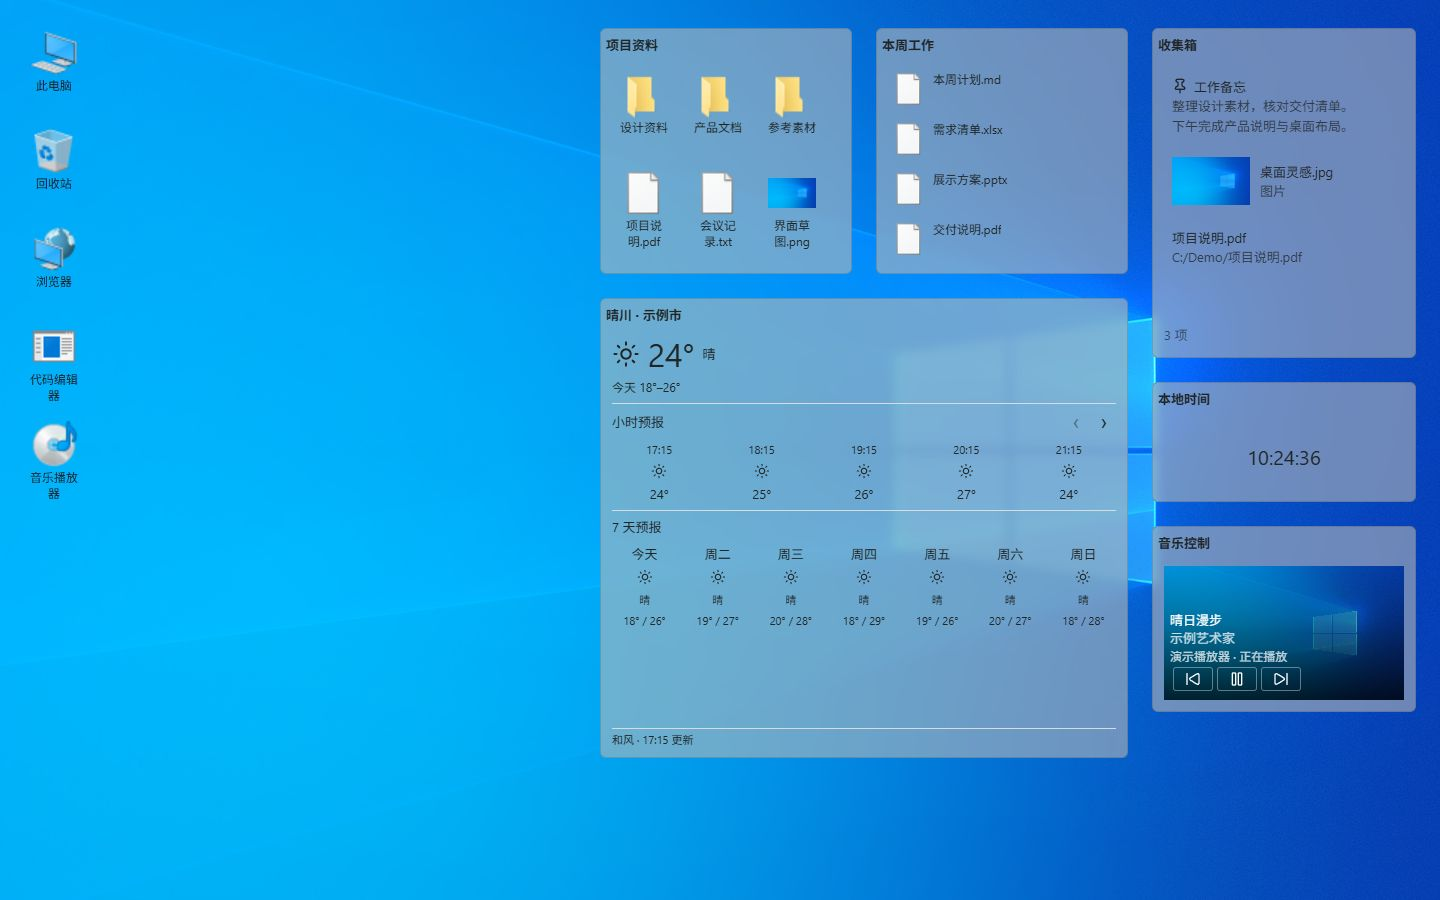
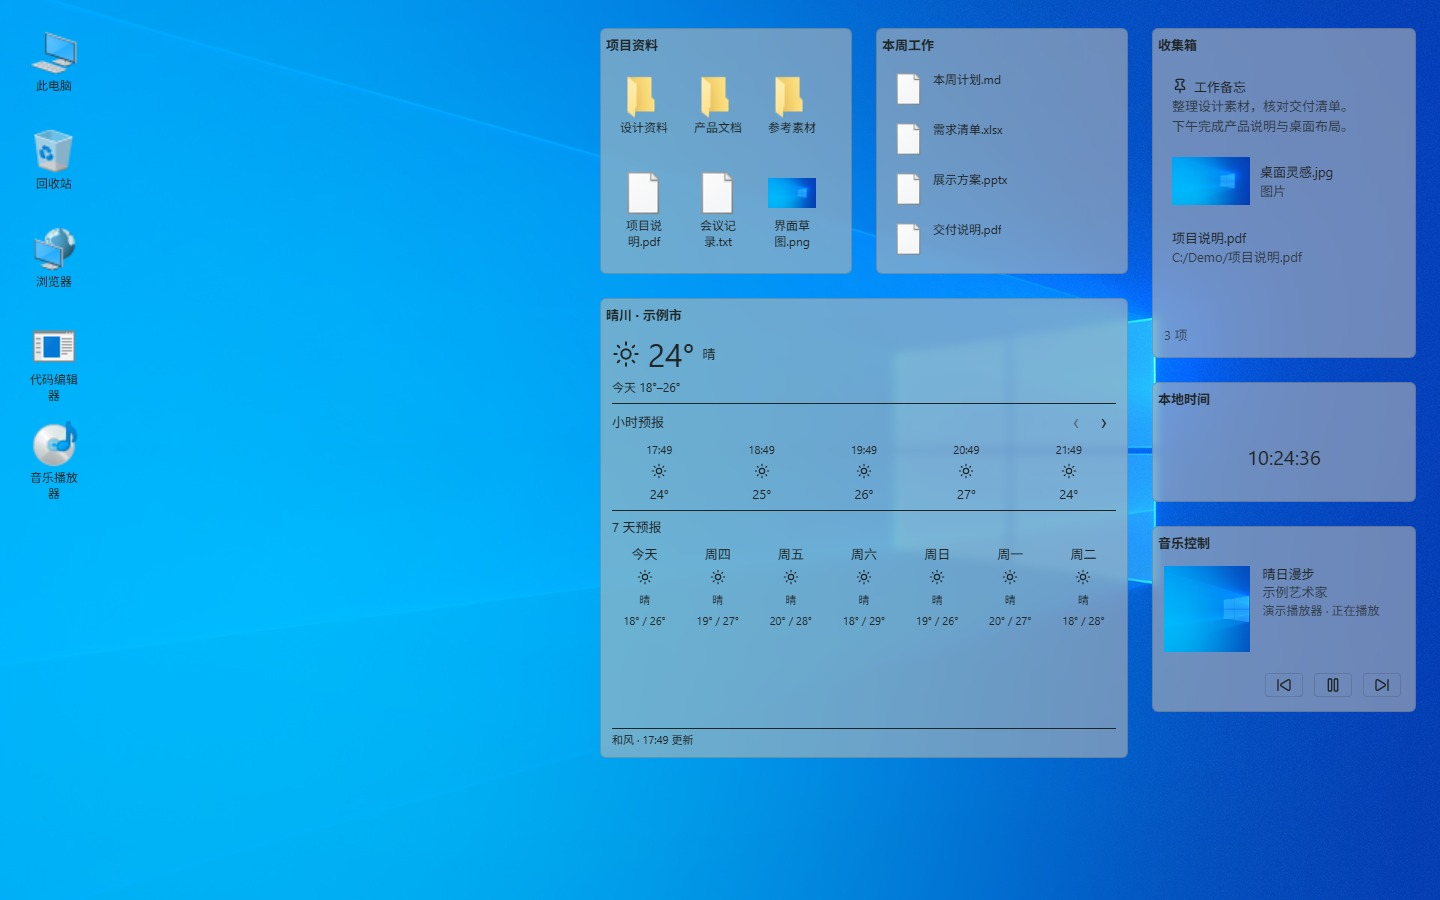
docs - 重写 README 为基础介绍，压缩功能说明并补快速开始、使用方式与功能边界 - 重新生成深色与浅色桌面截图，截图使用演示数据

Changed region(s): [[0.7812, 0.6222, 1.0, 0.7778]]

diff --git a/README.md b/README.md
@@ -1,83 +1,72 @@
 # 🖥 Desktop Tools
 
-Desktop Tools 是一款面向个人效率用户、专业创作者和开发者的 Windows 桌面内容工作区。它把文件、文件夹、围栏、门户和信息组件放在同一个可恢复的桌面表面上，同时保留 Windows Explorer 的文件事实、Shell 操作和系统恢复能力。
-
-## 📸 软件截图
+Desktop Tools 是一款 Windows 桌面内容工作区。它把桌面文件、文件夹、围栏、文件夹门户和常用信息组件放在同一个可恢复的桌面上，同时继续使用 Windows Explorer 管理文件。
 
 ![Desktop Tools 深色桌面工作区](resources/screenshots/desktop-overview.jpg)
 
 <details>
-<summary>浅色桌面工作区</summary>
+<summary>浅色主题</summary>
 
 ![Desktop Tools 浅色桌面工作区](resources/screenshots/desktop-overview-light.jpg)
 
 </details>
 
+> 截图为演示数据，不包含真实文件、账户或天气凭据。
+
 ## ✨ 功能
 
-- **桌面工作区**：组织文件、目录、快捷方式和功能格子，支持移动、缩放、折叠、边缘吸附、布局恢复和多显示器显示。
-- **围栏与文件夹门户**：围栏负责项目归属、排序和滚动；文件夹门户负责浏览绑定目录及其子目录，并支持真实文件拖入和拖出。
-- **Shell 内容呈现**：按需读取 Windows Shell 缩略图、视频帧和音频封面；加载失败时保留系统图标，不添加音乐角标、视频边框或快捷方式箭头。
-- **收集箱**：集中保存文本、独立图片和普通文件映射。支持 Markdown 编辑、图片预览、类型筛选、多选、拖出和共享内容；删除收集记录不会删除文件映射指向的源文件。
-- **功能格子**：提供收集箱、音乐、时间、Debug 和天气等官方组件。组件沿用统一的标题、菜单、移动、尺寸和跨屏交互；收集箱与天气格子可以从零添加，也可以移除。
-- **插件扩展与预设插件**：支持通过声明式清单与 JavaScript ES 模块外壳扩展桌面格子与设置页条目；插件可在清单中声明宿主能力，运行时经能力通道按实例授权调用，需要读本机数据的插件使用通用 loopback 通道（只绑本机回环地址、由宿主注入并校验凭据）取原始 HTTP 数据，自行解析。插件还可为每个格子类型声明默认与最小尺寸，并向格子右键菜单注入自己的命令。主题插件可自带字体文件，安装后字体出现在「设置 → 外观」的字体列表，可用于任何主题，缺字时逐字符回退到系统字体。安装包将「主题-青笺」「主题-宋律」「主题-夜之城」与「AstrBot 状态」及插件文档直接输出到程序所在目录的 `plugin`，此处也是默认插件根；仓库 `plugin/示例/` 的三个开发示例不随包分发。在设置页安装的插件装到 `作者@名称` 文件夹，标识由清单决定、安装不改写，同一作者的同一标识按同一插件覆盖安装；插件页显示本次启动实际使用的插件目录，可直接复制。可显式设置其他插件目录，下次启动生效，不自动搬迁旧文件。升级保留用户新增插件，但可能覆盖随包文件；真正卸载会删除安装目录内全部插件，包括用户自装插件，安装目录外的显式插件目录不受影响。开发运行通常使用 `build/target/debug/plugin`，仓库插件目录不自动生效。
-- **AstrBot 状态格子**：安装随附的「AstrBot 状态」插件后，可在桌面上按类型添加六个格子：状态、就绪时长、平台连接、资源占用、消息量与运行日志。四个结论（在线、离线、探测被拒、未知）各有独立文案，未知不等于离线；数据超过 60 秒未更新时标记为过期，不沿用旧值。随附的 AstrBot 侧采集插件 `astrbot_plugin_desktop_status` 需要手动装进 AstrBot 的数据目录：它在 AstrBot 进程内采集平台连接、资源占用、消息量、日志与 Token 用量，按快照契约 v2 推送到本机 `127.0.0.1:8765`，并在 `127.0.0.1:8766` 提供拉取与启停平台接口；两者共用一把本机随机密钥，存放于 Windows 凭据管理器（目标名 `DesktopTools/astrbot-status`），网格子经宿主的本机通道读取，不读写 AstrBot 的任何既有凭据，页面也不直接联网。推送端口被占用时自动退回拉取方式。安装、取 token、配对与排错的完整步骤见仓库 `plugin/AstrBot 状态/AstrBot状态插件安装与配对.md`。
-- **天气**：支持当前天气、24 小时预报和包含今天的 7 天预报；每个格子保存自己使用的 API 与城市，同一个 API 可以被多个格子使用，同一个城市也可以同时出现在多个格子里。可以同时配置多家 API，各自维护自己的城市或地区列表，城市搜索结果不保存。天气格子按照实时尺寸显示摘要、小时、日或完整预报；右键“固定显示模式”可锁定当前模式并限制最小尺寸，“切换显示模式”可选择其他模式，取消固定后恢复自动适配。来源栏显示来源与更新时间，详情通过标题栏右上角按钮或右键菜单打开；和风按城市搜索返回的详情页打开，Foreca 没有对应城市网页时该入口禁用。凭据由用户在设置中配置。
-- **主题**：主题插件整体替换应用外观——配色、字号、圆角与两组强调色，并可自带字体、原生消息配色和启动转场。在「设置 → 外观」的主题行切换，对整个应用生效（桌面网格、设置界面与自绘菜单）；切回默认主题会还原切换前的外观与字体。
-- **编辑与系统操作**：Markdown 编辑窗保留原始文件引用；打开网页、邮件、文件和媒体时使用系统默认程序。文件打开、重命名、复制、移动和删除通过 Windows Shell 执行。
+- **桌面工作区**：整理桌面项目，支持移动、缩放、折叠、边缘吸附、布局恢复和多显示器。
+- **围栏与文件夹门户**：把项目分组到围栏；文件夹门户可以浏览绑定目录并接收真实文件拖入、拖出。
+- **收集箱**：集中保存文本、图片和文件映射，支持 Markdown 编辑、预览、筛选、多选和拖出；删除收集记录不会删除源文件。
+- **功能格子**：天气、音乐、时间等桌面组件。天气支持多家来源、24 小时和 7 天预报；音乐格子可显示播放信息和歌词。
+- **主题与插件**：用主题插件整体更换配色、字体和圆角；用插件扩展桌面格子与设置页条目。插件需要声明能力，涉及本机数据的调用由宿主按实例授权。
+- **Windows 集成**：使用系统缩略图、系统默认程序打开内容，并通过 Windows Shell 完成重命名、复制、移动和删除。
 
-## 🛠 构建与运行
+## 🚀 快速开始
 
-### 🔧 环境
+环境要求：
 
 - Windows 10/11 x64
 - Node.js 与 npm
-- Rust stable，以及项目配置所需的 Cargo 工具链
-- Tauri 所需的 Windows WebView2 和 C++ 构建工具
+- Rust stable 与 Cargo
+- Tauri 所需的 WebView2 和 C++ 构建工具
 
-### 📦 安装依赖
+安装依赖并启动开发版：
 
 ```text
 npm install
+npm run tauri:dev
 ```
 
-### 🚀 开发运行
+开发版启动前请先退出已安装的 Desktop Tools，否则会因桌面菜单互斥体被占用而直接退出。
+
+常用命令：
 
 ```text
-npm run dev
+npm run typecheck      # 类型检查
+npm test               # 前端、组件与 Rust 测试
+npm run tauri:build    # 构建 Windows 应用
+npm run tauri:installer # 生成未签名 NSIS 安装包
 ```
 
-### 🧪 检查与构建
+安装包输出在 `build/target/release/bundle/nsis/`。安装时可选择仅当前用户或所有用户。
 
-```text
-npm run typecheck
-npm test
-npm run build
-npm run tauri:build
-```
+## 📖 使用方式
 
-`npm test` 运行前端、组件与 Rust 全量测试。
-
-`npm run build` 生成前端发布资源；`npm run tauri:build` 生成 Windows 应用构建产物。未签名的 Windows x64 测试安装包可通过 `npm run tauri:installer` 生成，NSIS 产物位于 `build/target/release/bundle/nsis/`。安装时可选「仅为我」或「所有用户」：前者装到当前用户目录，不请求管理员权限；后者请求提权并装到 64 位的 Program Files。已安装旧版本时，重装页默认勾选“添加/重新安装组件”并直接覆盖安装，勾选“卸载 Desktop Tools”则先卸载再安装；降级安装须先勾选卸载确认才能继续。
-
-## 📖 使用说明
-
-首次打开后，可以从桌面背景菜单或设置入口添加功能格子。拖动文件或文件夹可将内容交给门户或收集箱；双击、Enter 或格子菜单可打开对应内容。工作区状态会保存，重新启动后恢复已保存的布局和组件设置。
-
-天气功能默认关闭。启用后在“功能格子 → 天气”中添加来源：列表显示已配置来源及其可用状态，底部“+ 添加 API”选择供应商并填写对应凭据——和风天气需要 API Host、开发者 ID、项目 ID、凭据 ID 与 Ed25519 私钥，Foreca 只需要 API key——凭据填写完整即可保存。和风在保存时会自动用该来源第一座城市验证一次，结果直接显示为可用或不可用；验证不通过不影响凭据已被保存，稍后可用右键“检测可用”重试。编辑来源时留空的 API key 或私钥表示沿用已保存的值，填入新值表示替换。可以同时添加多家来源，不需要在其中选一家使用。
-
-每个来源各自维护一份城市或地区列表：展开列表项可以查看、添加和删除城市，也可以右键“添加城市”；编辑来源的弹窗里同样可以管理这份列表，添加城市使用该来源已保存的凭据。搜索到候选城市后点“添加”才写入列表，“验证配置”只是可选的可用性检查，不写入也不阻止添加；搜索命中即可证明位置可用的来源只校验字段与链接，其余来源会实际请求一次当前天气。删除城市只是把它从该来源列表移除，正在使用该城市的天气格子会提示重新选择。
-
-天气格子按需添加：桌面空白处右键菜单的“添加天气”、来源列表右键菜单“添加天气格子”下按城市创建，两者与 Explorer 桌面背景菜单的“添加天气”共用同一创建流程与布局撤销。从“添加天气”创建的格子初始不绑定来源与城市，在格子的右键菜单里用“切换 API”“选择城市”选定即可；切换到另一家来源会清空该格子的城市，需要在新来源下重新选择。同一个来源可以被多个格子使用，同一个城市也可以同时出现在多个格子里。格子选择的来源与城市随格子保存，用于下次启动恢复；缺少来源或城市时，格子按原因提示“选择 API”或“选择城市”。格子右键菜单底部的“移除”只移除当前格子，已保存的凭据与该来源城市列表不受影响，布局撤销可以恢复。
-
-删除来源只清除该来源凭据并需要确认，该来源的城市列表与已有格子布局都会保留；使用该来源的格子提示“天气 API 配置已删除，请重新选择”，不继续展示旧数据。
+1. 从桌面背景菜单或设置页添加功能格子，可以添加天气、音乐、时间等组件。
+2. 拖动文件或文件夹，可以把内容交给文件夹门户或收集箱。
+3. 双击、Enter 或格子菜单可以打开对应内容；布局和组件状态会自动保存，下次启动恢复。
 
 ## 🚧 功能边界
 
-- Desktop Tools 维护工作区布局、围栏归属、门户配置和功能格子状态；Windows Explorer 继续维护文件事实和 Shell 恢复能力。
-- 天气使用用户自己的天气服务账户（和风天气或 Foreca），不内置共享凭据；真实账户权限、网络可用性和供应商配额由用户账户决定。
-- 天气的多家来源可以并存并同时更新，应用不自动切换来源、不拼接两家数据，也不按位置自动定位；每个格子使用哪一家、看哪个地区都由用户指定。同一个来源被多个格子使用时，相同城市共享一次请求与缓存。
-- 天气缓存用于减少重复请求，数据可能因网络、有效期或服务端限制而暂时不可用；天气页面显示来源、更新时间和失败状态。
-- 界面图标取自开源图标库 [Lucide](https://lucide.dev/icons/) 的 SVG 资源，许可证随资源一并提供；应用不使用图标字体，也不内置第三方地图或天气图标。
-- 「主题-宋律」自带的宋体取自 [Noto Serif SC](https://github.com/notofonts/noto-cjk)（SIL OFL 1.1），按 GB2312 一级字与常用标点裁剪为单文件，许可文本见 `resources/许可证/OFL-1.1-思源宋体.txt`，裁剪脚本为 `scripts/subset-theme-font.py`。
-- 多显示器、混合 DPI、Windows 外部拖放和持续拖动性能需要在 Windows 宿主上验证，自动化测试不能替代真实设备检查。
+- 仅支持 Windows 10/11 x64。
+- Desktop Tools 负责工作区布局、围栏归属、门户配置和功能格子状态；文件事实与 Shell 恢复仍由 Windows Explorer 负责。
+- 天气使用你自己的和风天气或 Foreca 账户，不内置共享凭据；网络和供应商配额由你的账户决定。
+- 插件是本地 JavaScript 模块，请只安装可信来源的插件。
+- 截图使用演示数据；真实文件拖放、多显示器、混合 DPI 和透明桌面合成需要在 Windows 实机上验证。
+
+## 📄 许可
+
+核心应用采用 GPL-3.0-or-later，完整许可见 `resources/许可证/`。界面图标取自 [Lucide](https://lucide.dev/icons/)，主题字体与第三方资源许可随资源一并提供。
+
+项目源码：https://github.com/TIAmo1208/DesktopTools
